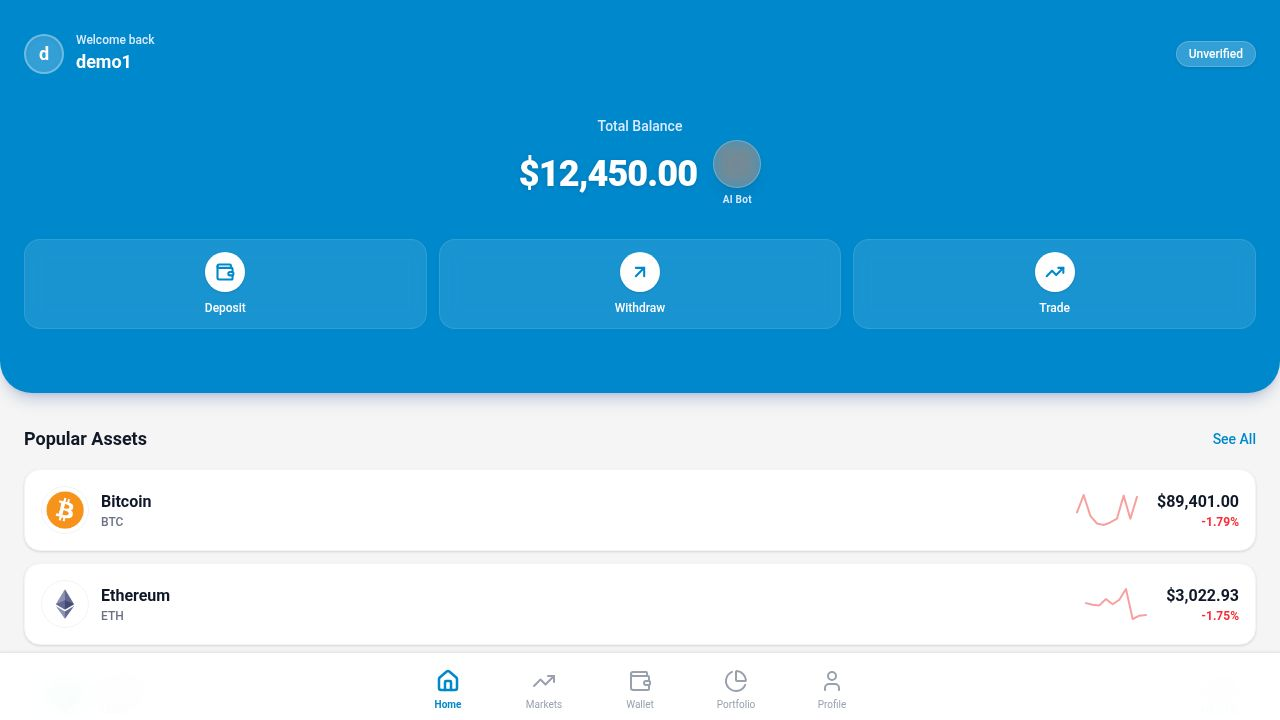
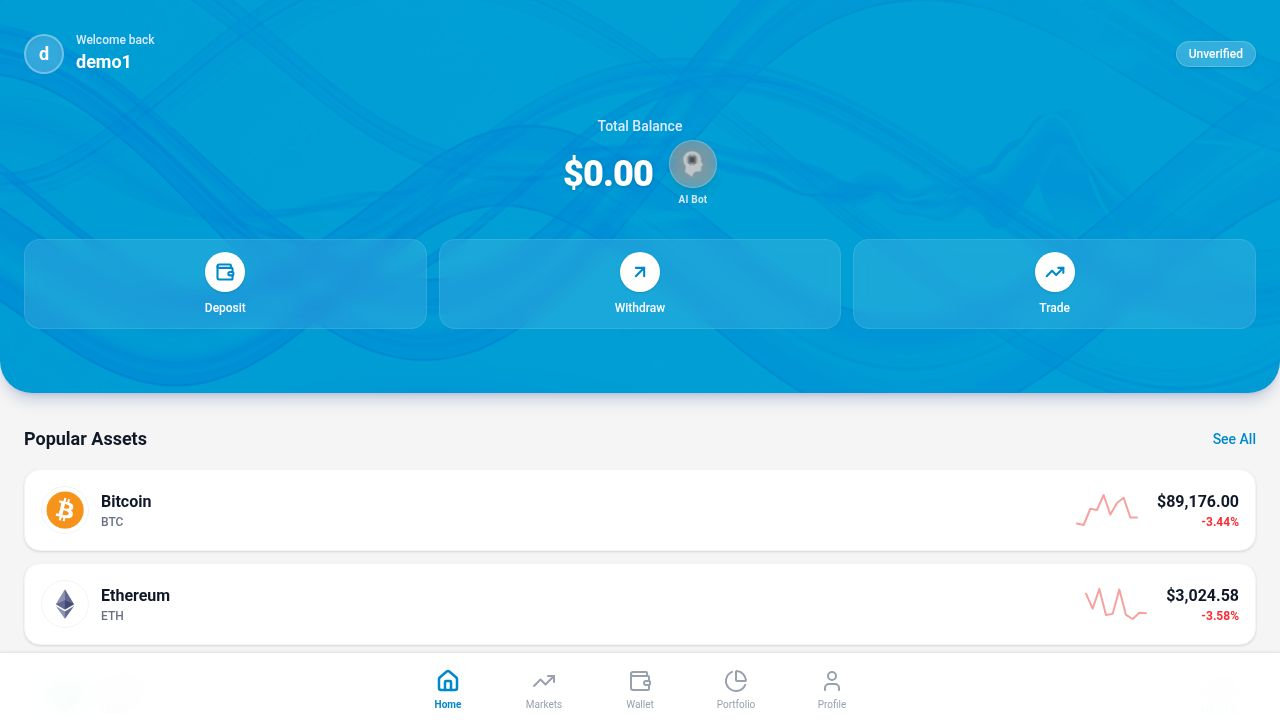
Display real-time user account balance on the home page
Update the home page component to dynamically display the user's total balance fetched from the backend, defaulting to $0.00 if no balance is available.

Replit-Commit-Author: Agent
Replit-Commit-Session-Id: dbfbdd6f-10ee-46e0-8b4d-dbf628912016
Replit-Commit-Checkpoint-Type: full_checkpoint
Replit-Commit-Event-Id: 0fa48c51-0447-466b-ad2c-9144655914f6
Replit-Commit-Screenshot-Url: https://storage.googleapis.com/screenshot-production-us-central1/85cd3f36-fcfa-43d9-a41f-451ea9054cb6/dbfbdd6f-10ee-46e0-8b4d-dbf628912016/ZXBFYX4

diff --git a/client/src/pages/home.tsx b/client/src/pages/home.tsx
@@ -232,7 +232,9 @@ export default function Home() {
             <div className="flex flex-col items-center justify-center mb-8">
               <p className="text-blue-100 text-sm mb-1 font-medium">Total Balance</p>
               <div className="flex items-center gap-4">
-                <h2 className="text-4xl font-black tracking-tight drop-shadow-sm">$12,450.00</h2>
+                <h2 className="text-4xl font-black tracking-tight drop-shadow-sm">
+                  ${userBalance ? parseFloat(userBalance.totalBalanceUsd || "0").toLocaleString('en-US', { minimumFractionDigits: 2, maximumFractionDigits: 2 }) : "0.00"}
+                </h2>
                 <Link href="/markets">
                   <div className="flex flex-col items-center cursor-pointer group">
                     <div className={`w-12 h-12 bg-white/20 rounded-full backdrop-blur-sm p-2 border border-white/30 shadow-lg transition-all duration-300 group-hover:scale-105 ${!isBotActive ? 'grayscale opacity-80' : ''}`}>
